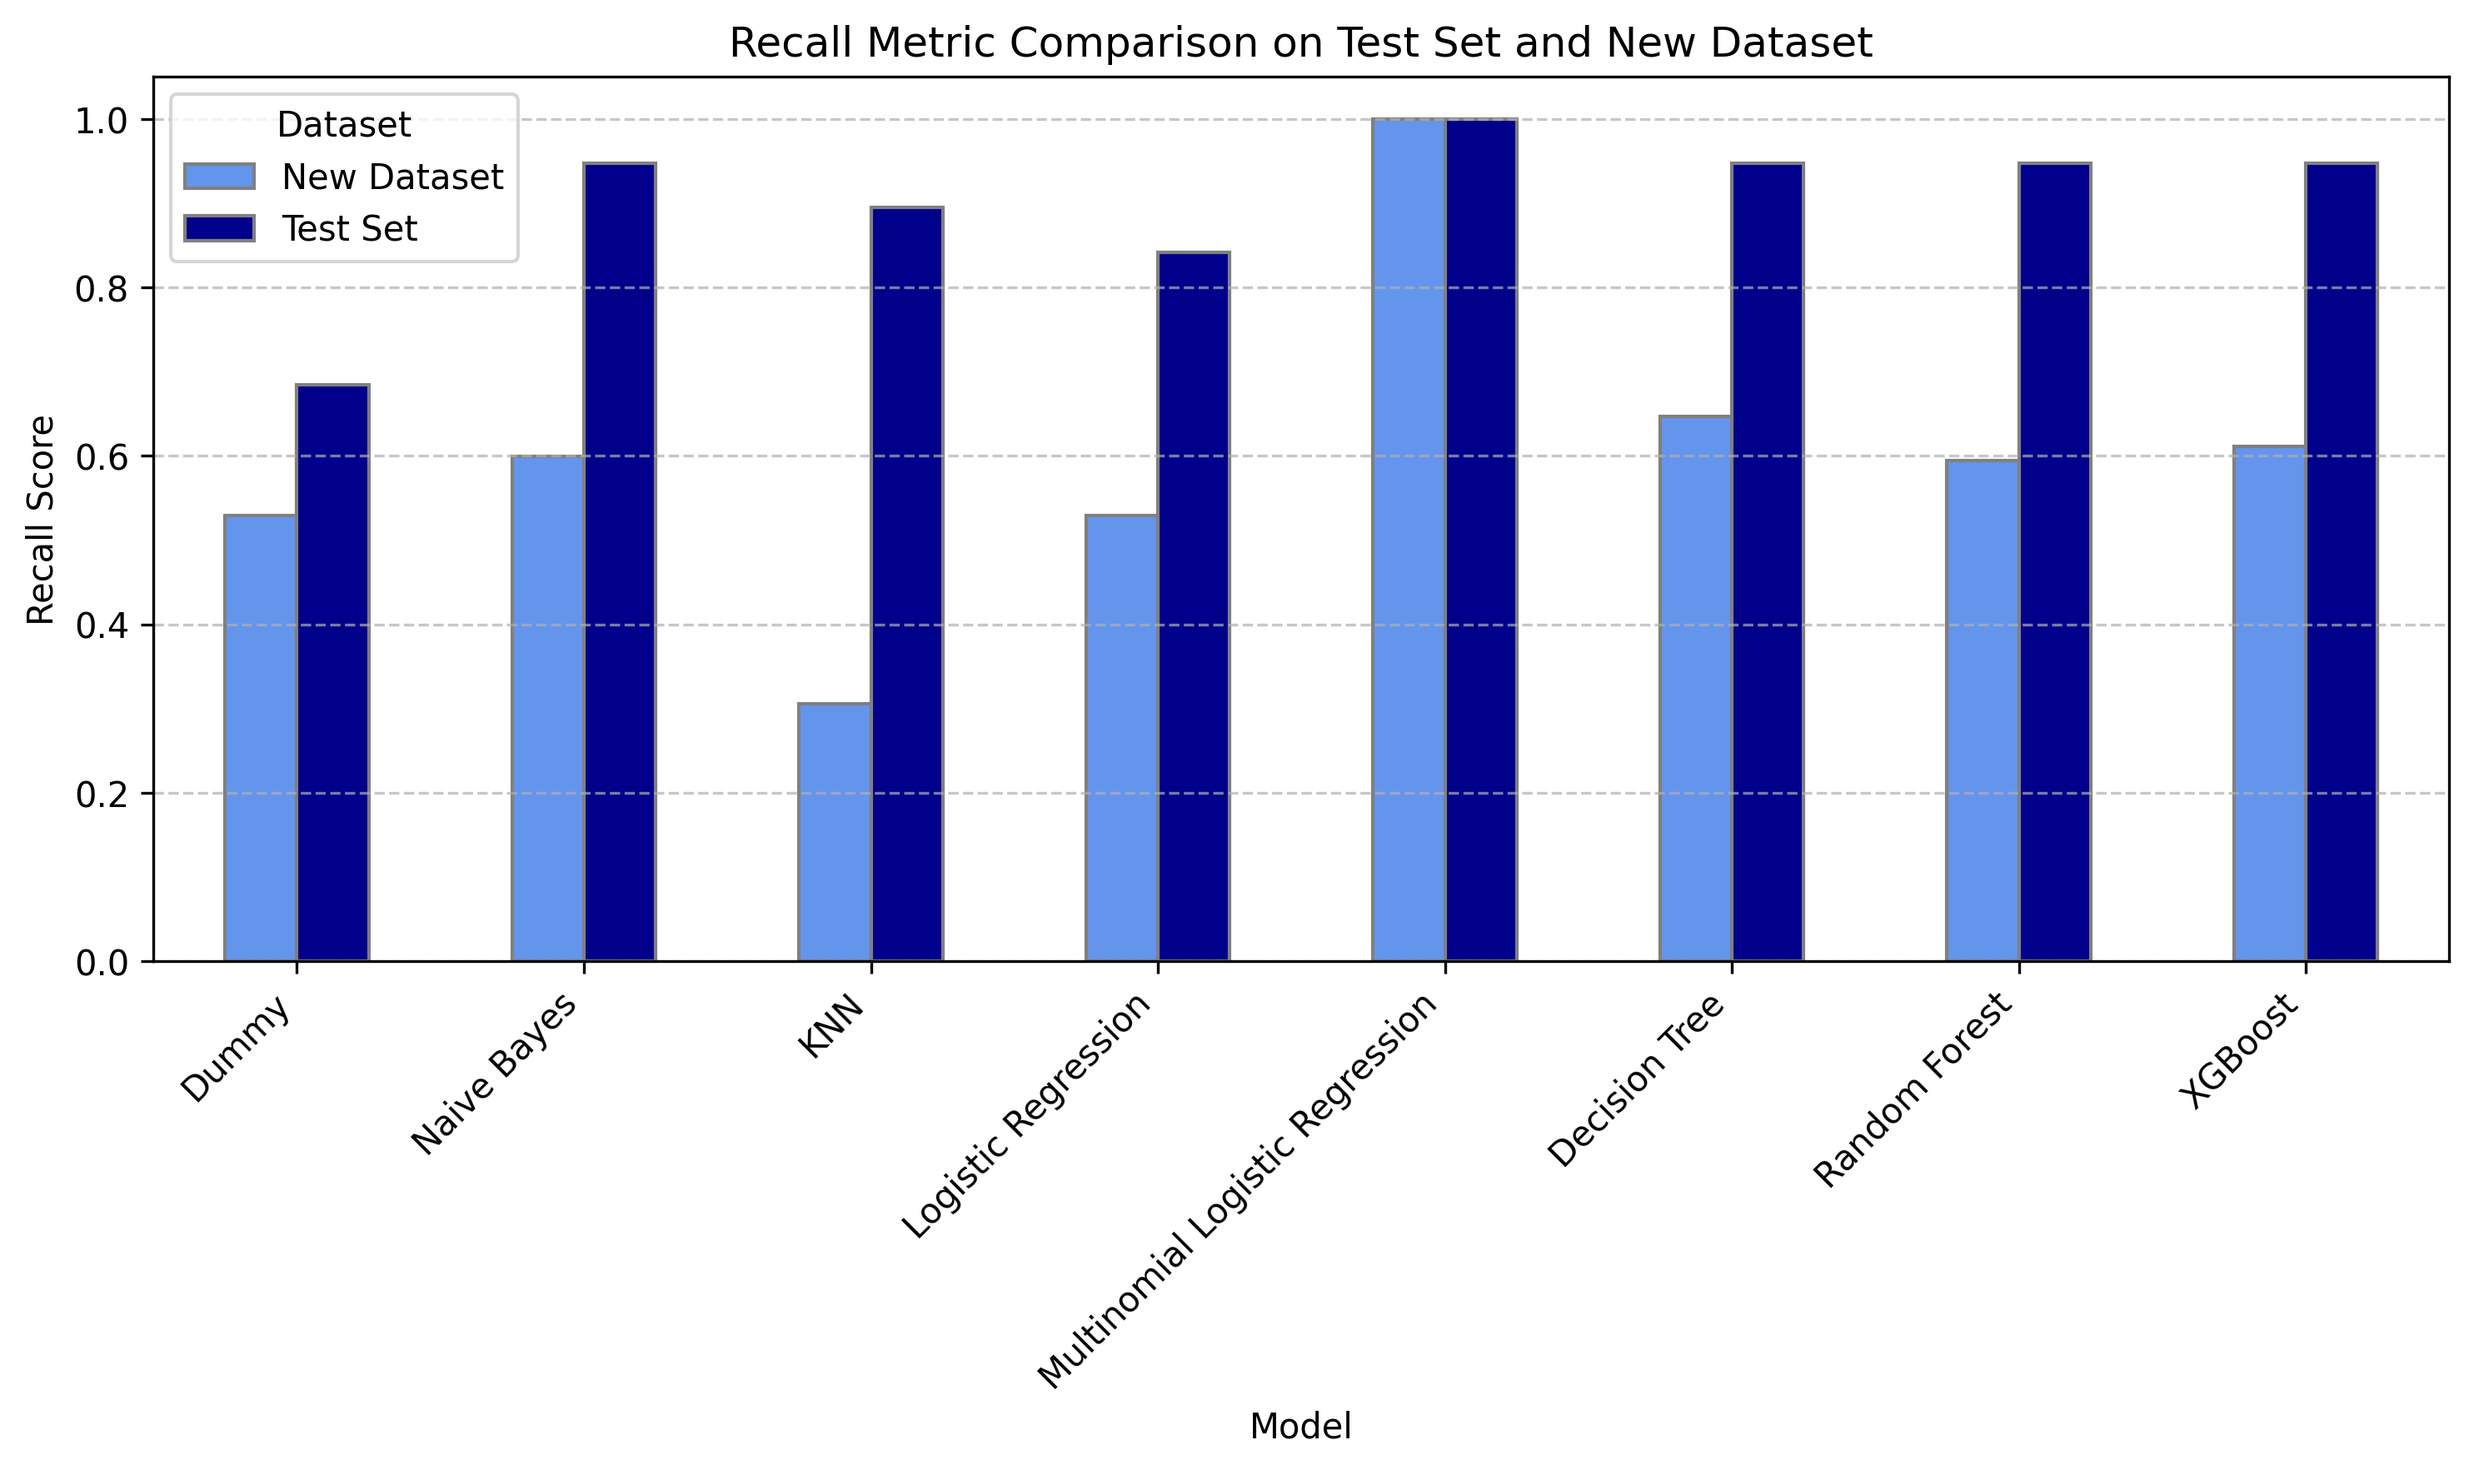
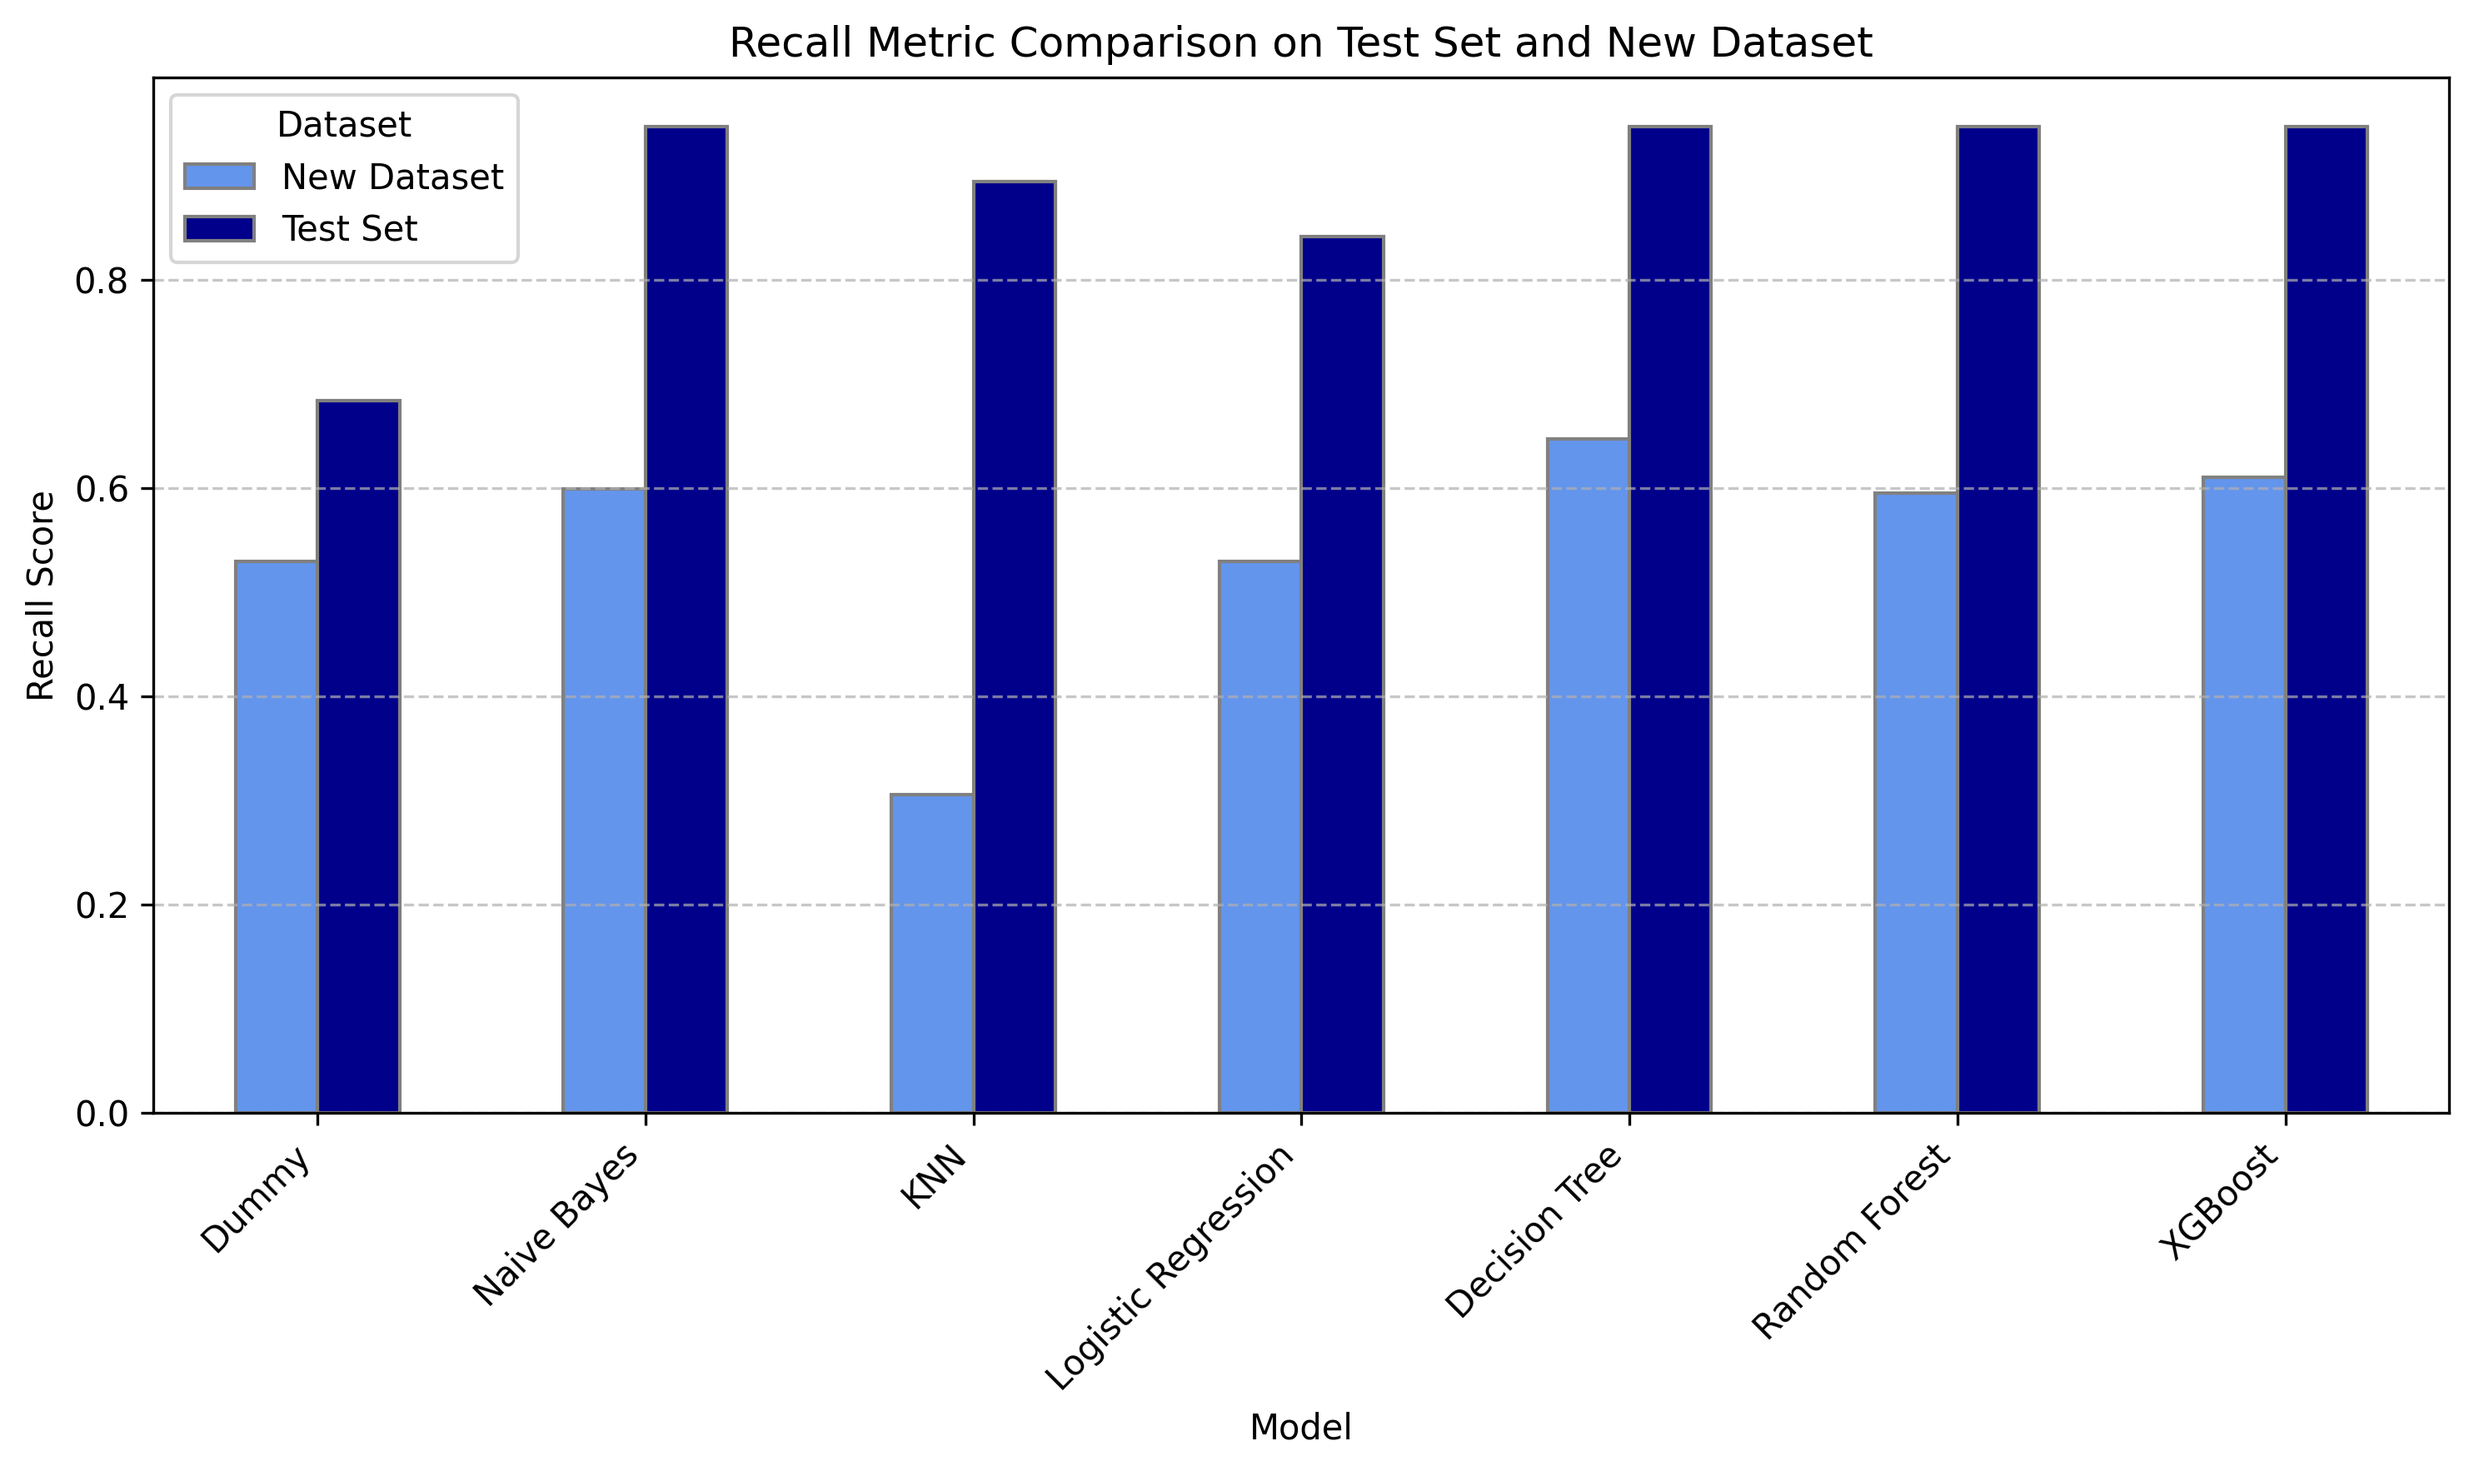
big final update

diff --git a/utils/utils.py b/utils/utils.py
@@ -115,9 +115,6 @@ def initialize_models():
         'Logistic Regression': {
             'model': LogisticRegression(max_iter=1000, class_weight='balanced'), 
             'params': {'C': np.logspace(-4, 4, 10), 'solver': ['liblinear', 'lbfgs', 'saga']}},
-        'Multinomial Logistic Regression': {
-            'model': LogisticRegression(max_iter=1000, solver='lbfgs', multi_class='multinomial'), 
-            'params': {'C': np.logspace(-4, 4, 10), 'solver': ['newton-cg', 'lbfgs'], 'multi_class': ['multinomial']}},
         'Decision Tree': {
             'model': DecisionTreeClassifier(), 
             'params': {'max_depth': [3, 5, 10, 20], 'min_samples_split': [2, 5, 10]}},
